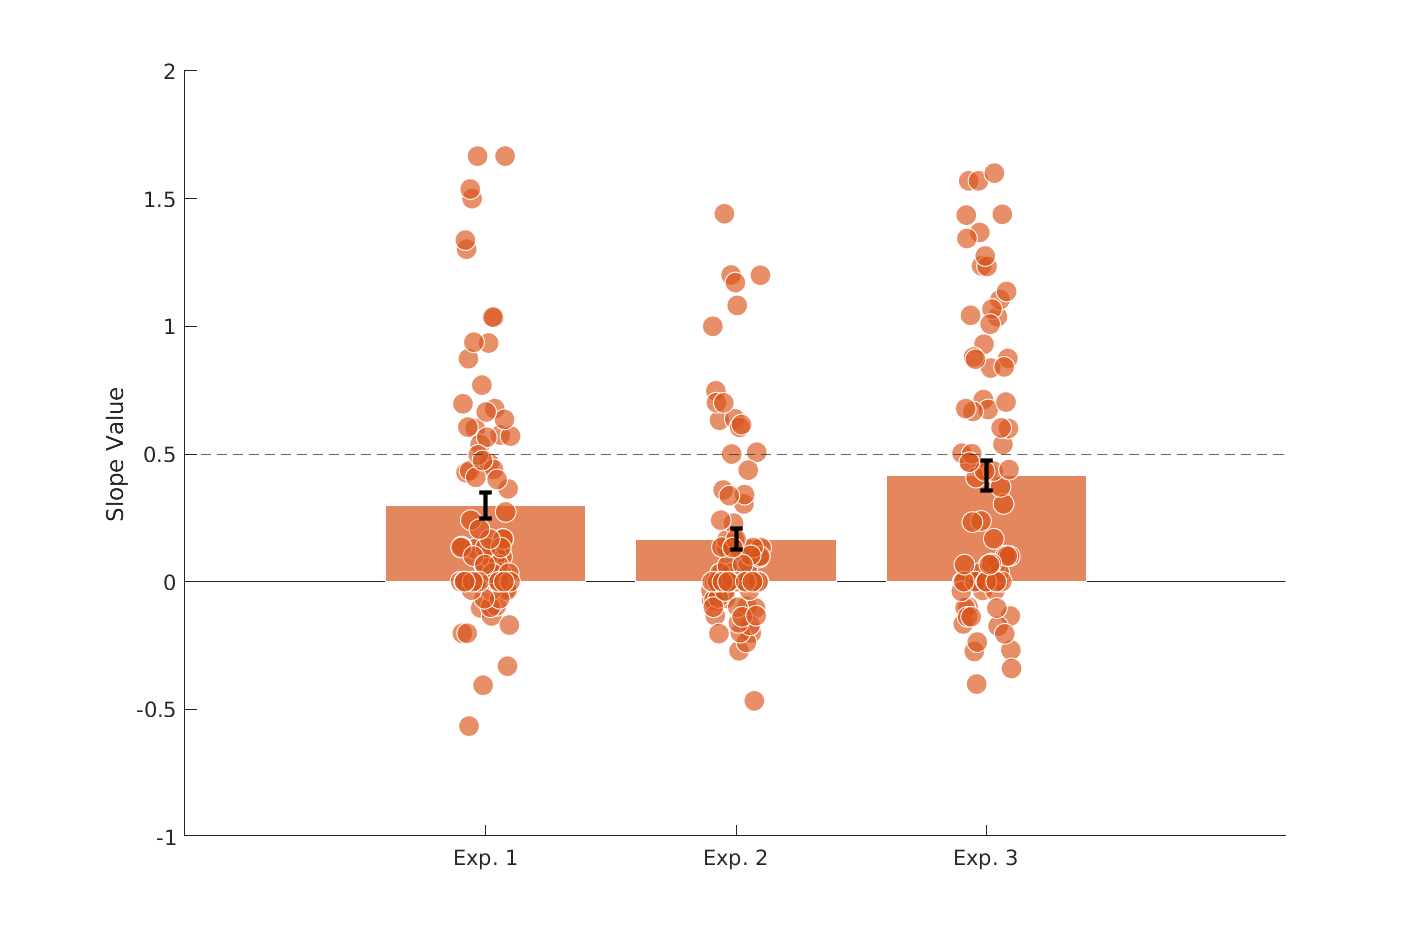
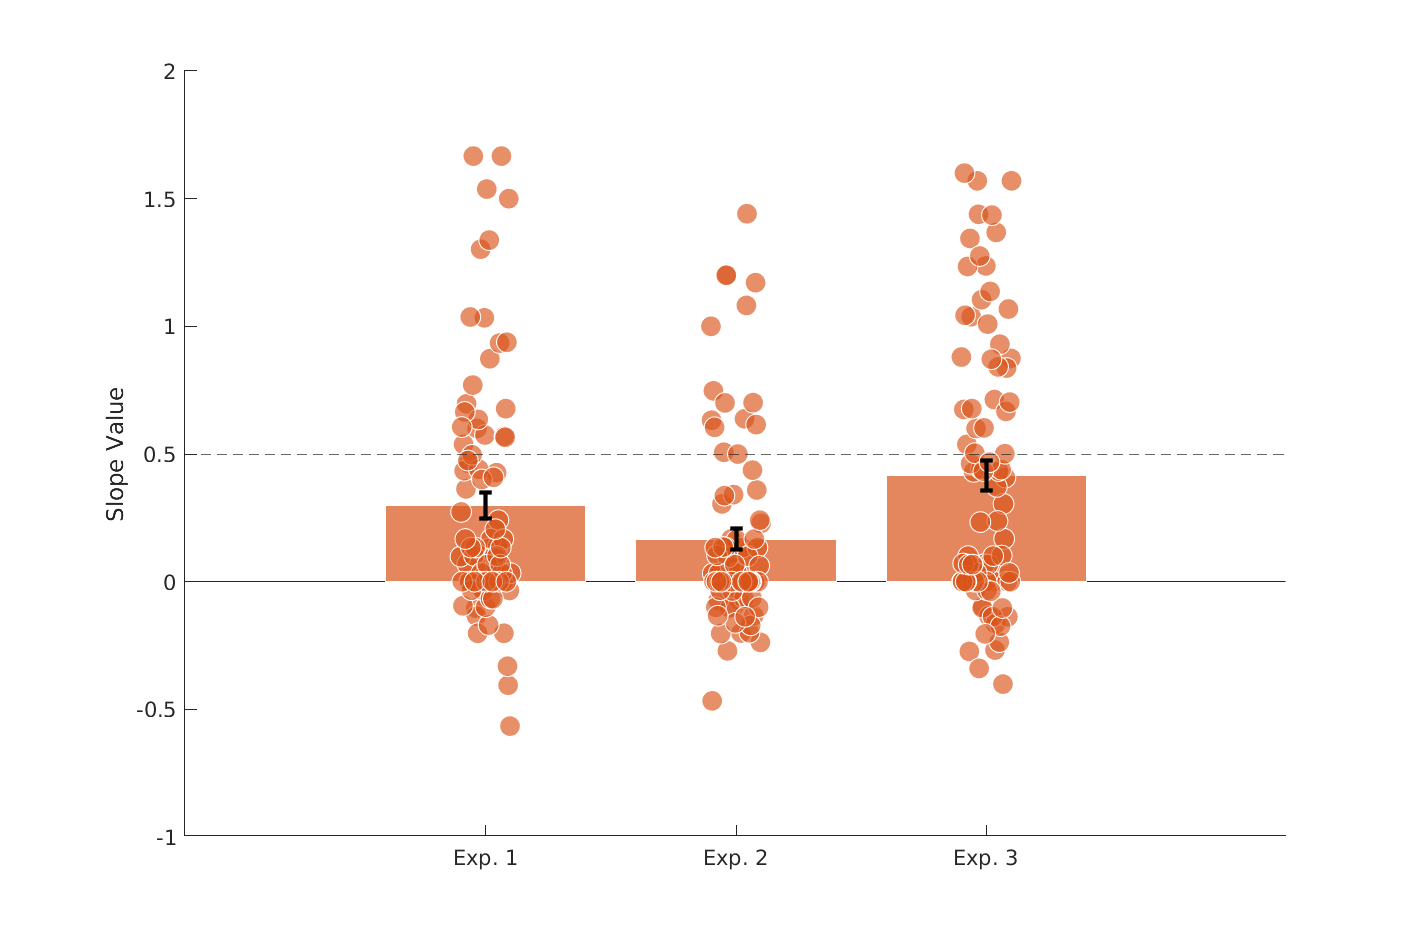
update

diff --git a/fit_post_test.m b/fit_post_test.m
@@ -10,13 +10,13 @@ init;
 %------------------------------------------------------------------------
 % Plot fig 2.A
 %------------------------------------------------------------------------
-exp_names = {filenames{1:3}};
-plot_fitted_values_desc_vs_exp(d, idx, fit_folder, orange_color, exp_names);
+% exp_names = {filenames{1:3}};
+% plot_fitted_values_desc_vs_exp(d, idx, fit_folder, orange_color, exp_names);
 
-% exp_names = {filenames{5:7}};
-% plot_fitted_values_all_session(d, idx, fit_folder, orange_color, blue_color, exp_names);
-
-%exp_names = {filenames{6}};
+exp_names = {filenames{4:7}};
+plot_fitted_values_all(d, idx, fit_folder, orange_color, blue_color, exp_names);
+% 
+% %exp_names = {filenames{6}};
 %plot_fitted_values_6(d, idx, fit_folder, orange_color, blue_color, exp_names);
 
 % --------------------------------------------------------------------
@@ -141,8 +141,8 @@ function plot_fitted_values_all_session(d, idx, fit_folder, orange_color, blue_c
             orange_color,...
             [-1, 1], 11,...
             '',...
-            'Symbol Expected Value',...
-            'Fitted value', varargin, 1, x_lim, x_values);
+            'Experienced Cue EV',...
+            'Fitted EV', varargin, 1, x_lim, x_values);
             title(titles{i});
             hold on
 
@@ -204,7 +204,8 @@ function plot_fitted_values_all_session(d, idx, fit_folder, orange_color, blue_c
             hold on
             box off
             mkdir('fig/exp', 'fit_post_test_desc_vs_exp');
-
+            
+            set(gca, 'FontSize', 19);
             num = [5, 5, 6, 6, 7, 7];
             str = sprintf('fig/exp/fit_post_test_desc_vs_exp/exp_%d_sess_%d.png', num(i), session+1);      
 
@@ -515,6 +516,8 @@ function plot_fitted_values_desc_vs_exp(d, idx, fit_folder, orange_color, exp_na
         groupwidth = min(0.8, nbars/(nbars + 1.5));
         %colors = [orange_color; blue_color];
         yline(.5, 'LineStyle', '--');
+        hold on
+        
         for b = 1:nbars
             x = (1:ngroups) - groupwidth/2 + (2*b-1) * groupwidth / (2*nbars);
             hold on
@@ -733,7 +736,9 @@ function plot_fitted_values_all(d, idx, fit_folder, orange_color, blue_color, ex
             
         num = [4, 5, 6, 7];
         str = sprintf('fig/exp/fit_post_test_desc_vs_exp/exp_%d.png', num(i));      
-       
+        
+        set(gca, 'FontSize', 19);
+
         saveas(gcf, str)
         
         i = i + 1;
@@ -848,7 +853,7 @@ function plot_fitted_values_all(d, idx, fit_folder, orange_color, blue_color, ex
 
         %set(gca, 'ytick', []);
         %ylim([0, 1.15]);
-
+            
         box off
         str = 'fig/exp/fit_post_test_desc_vs_exp/exp_4_5_6_7.png';  
        

diff --git a/ambiguity_curves.m b/ambiguity_curves.m
@@ -63,8 +63,11 @@ for f = {filenames{[6,7]}}
     
     lin1 = plot(...
         linspace(0, 1, 12), ones(12)*0.5,...
-        'LineStyle', ':', 'Color', [0, 0, 0], 'HandleVisibility', 'off');
-    
+       'LineStyle', ':', 'Color', [0, 0, 0], 'HandleVisibility', 'off');
+   hold on
+   lin2 = plot(...
+        ones(12)*0.5, linspace(0, 1, 12),...
+        'LineStyle', ':', 'LineWidth', 1.5, 'Color', [0, 0, 0], 'HandleVisibility', 'off');
     hold on
     
     lin3 = plot(...
@@ -162,6 +165,11 @@ for f = {filenames{[6,7]}}
         linspace(0, 1, 12), ones(12)*0.5,...
         'LineStyle', ':', 'Color', [0, 0, 0], 'HandleVisibility', 'off');
     
+    hold on
+    
+    lin2 = plot(...
+        ones(12)*0.5, linspace(0, 1, 12),...
+        'LineStyle', ':', 'LineWidth', 1.5, 'Color', [0, 0, 0], 'HandleVisibility', 'off');
     hold on
     
     lin3 = plot(...
